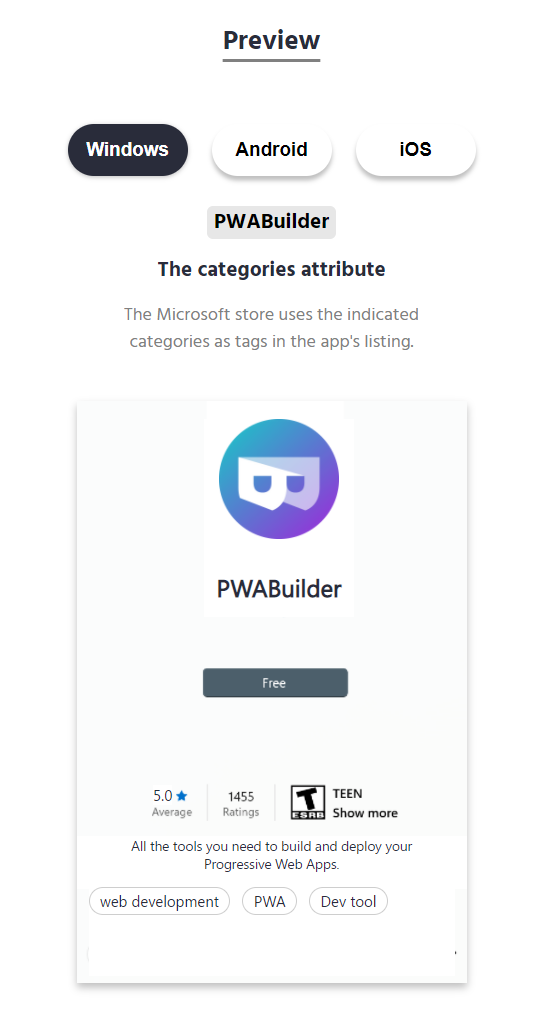
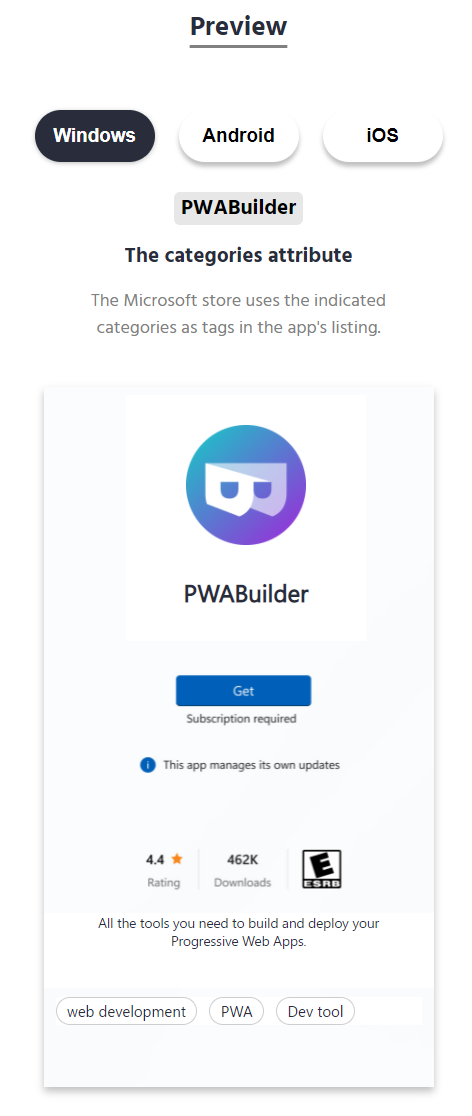
Update previewer post

diff --git a/src/posts/manifest-previewer/manifest-previewer.md b/src/posts/manifest-previewer/manifest-previewer.md
@@ -3,7 +3,7 @@ layout: post
 title: Visualizing your web manifest
 excerpt: Building your progressive web app and wondering what's the purpose of this json file?
 description: A crucial part of building a PWA is creating its manifest.json file. However, this is not always an easy task... Besides a name and icons, what else should you include? Why do you need a background color if you already have that in your CSS stylesheets? Which are the different display modes, and which one should you use?  
-date: 2021-07-27
+date: 2021-08-17
 trending: false
 featured: true
 image: posts/manifest-previewer/name-windows.png
@@ -20,7 +20,7 @@ tags:
 
 We have all been there. Staring at this mysterious `json` object that seems so important for a progressive web app. Besides a name and icons, what else should you include? Why do you need a background color if you already have that in your CSS stylesheets? Which are the different display modes, and which one should you use?  
 
-During the last 2 months, I've been working on a project that addresses these questions: the <a href="https://www.npmjs.com/package/@pwabuilder/manifest-previewer" target="_blank">PWABuilder Manifest Previewer</a>. This is a <a href="https://blog.pwabuilder.com/posts/building-pwas-with-web-components!/" target="_blank">web component</a> that takes your web manifest and shows you what the different manifest values look like on different operating systems. As an example, here's the manifest visualizer showing the <a href="https://www.w3.org/TR/appmanifest/#name-member" target="_blank">name</a> attribute appears on the Windows start menu:
+During the last 3 months, I've been working on a project that addresses these questions: the <a href="https://www.npmjs.com/package/@pwabuilder/manifest-previewer" target="_blank">PWABuilder Manifest Previewer</a>. This is a <a href="https://blog.pwabuilder.com/posts/building-pwas-with-web-components!/" target="_blank">web component</a> that takes your web manifest and shows you what the different manifest values look like on different operating systems. As an example, here's the manifest visualizer showing the <a href="https://www.w3.org/TR/appmanifest/#name-member" target="_blank">name</a> attribute appears on the Windows start menu:
 <img src="/posts/manifest-previewer/name-windows.png" alt="Name preview - Windows" width="500px" />
 
 And this is by just knowing the name and icon defined on the manifest! You can also experience the same visualization on Android and iOS: 
@@ -38,7 +38,9 @@ The manifest previewer can also help you visualize your application's store list
 This web component also showcases some of the most modern features of PWAs, like making your app a <a href="https://web.dev/web-share-target/">web share target</a> so that users can share media data to your application directly from the platform's share menu:
 <img src="/posts/manifest-previewer/share-target.png" width="700px" />
 
-And that's not all! This web component also includes previews for the `short_name`, `display`, `theme_color`, `shortcuts`, and many other manifest attributes. You can see them all now on <a href="https://www.pwabuilder.com/" target="_blank">the PWABuilder site</a>, since the team is the first proud user of this component, and it is using it to help their users have a better experience when getting their applications ready to be published to the Microsoft store. You can also integrate the manifest visualizer to your own application, since this component is a standalone tool and can be <a href="https://www.npmjs.com/package/@pwabuilder/manifest-previewer" target="_blank">downloaded</a> from `npm`. To learn more about how to use it, check out <a href="https://github.com/pwa-builder/manifest-previewer#pwabuilder---manifest-previewer" target="_blank">the documentation</a> and customize it according to your needs, from using your own colors to using the explanation messages that you desire.
+And that's not all! This web component also includes previews for the `short_name`, `display`, `theme_color`, `shortcuts`, and many other manifest attributes. You can see them all now on <a href="https://www.pwabuilder.com/" target="_blank">the PWABuilder site</a>, since the team is the first proud user of this component, and it is using it to help their users have a better experience when getting their applications ready to be published to the Microsoft store. Currently the team is only enabling the preview on Windows, but the Android and iOS will be added in the near future.
+
+You can also integrate the manifest visualizer to your own application, since this component is a standalone tool and can be <a href="https://www.npmjs.com/package/@pwabuilder/manifest-previewer" target="_blank">downloaded</a> from `npm`. To learn more about how to use it, check out <a href="https://github.com/pwa-builder/manifest-previewer#pwabuilder---manifest-previewer" target="_blank">the documentation</a> and customize it according to your needs, from using your own colors to using the explanation messages that you desire.
 
 Before I wrap up, I will take a brief detour and get a bit sentimental: Thanks to everyone in the PWABuilder team. You’ve made my internship this summer amazing, and I truly admire your passion and dedication for what you do. More than builders, you’re creators, enhancers, and innovators. Keep doing what you’re doing. 
 
